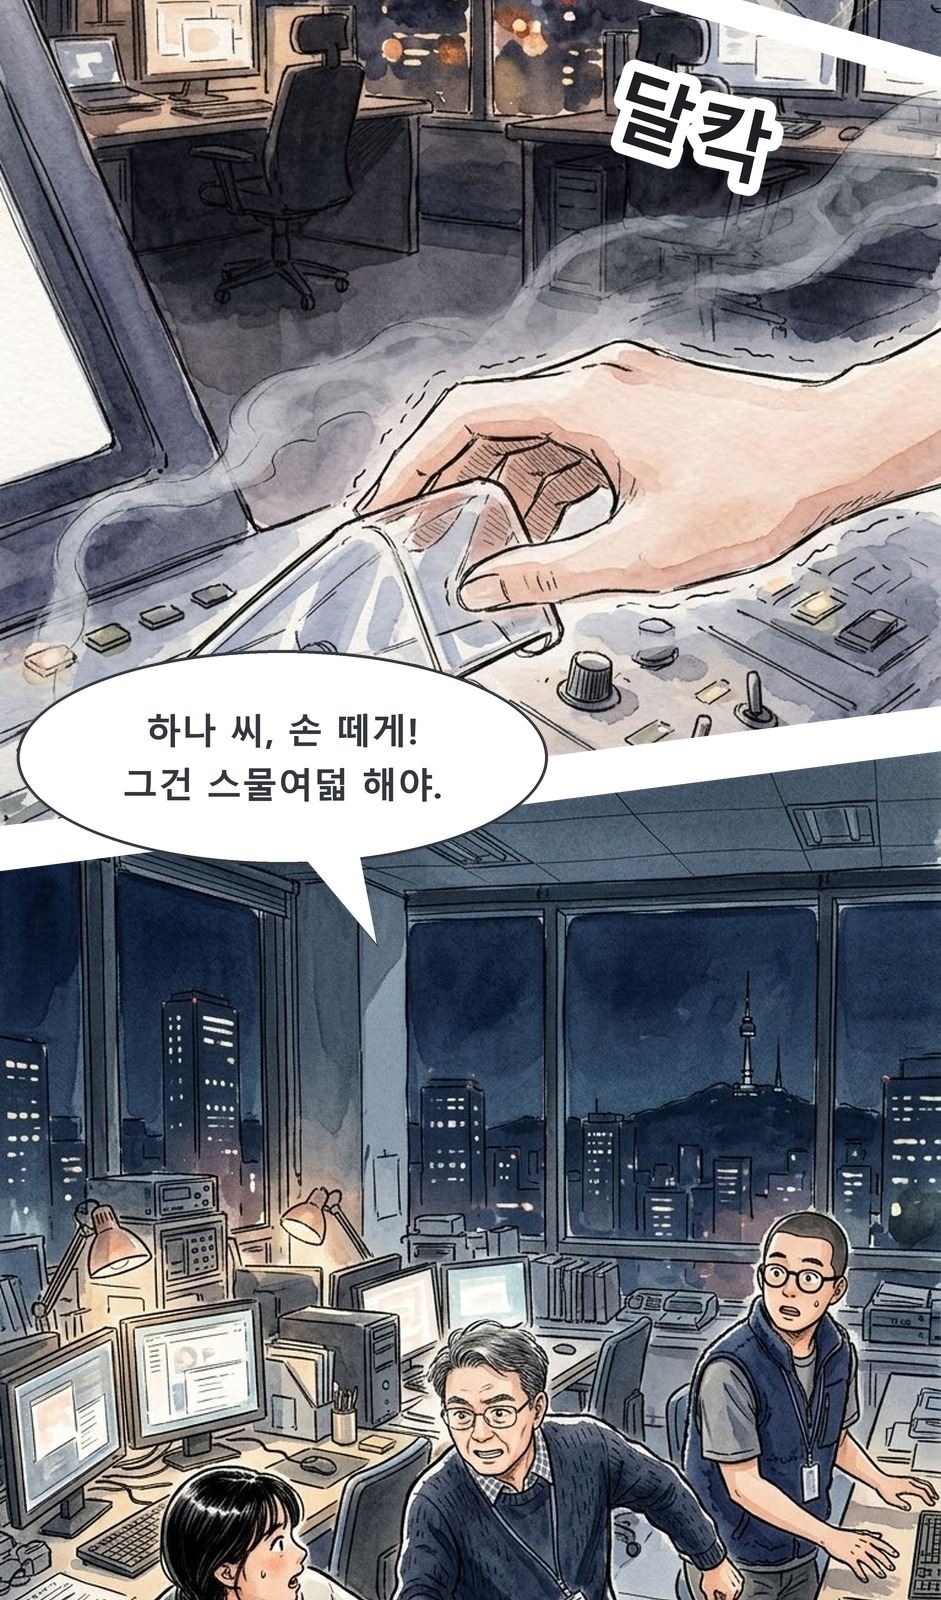
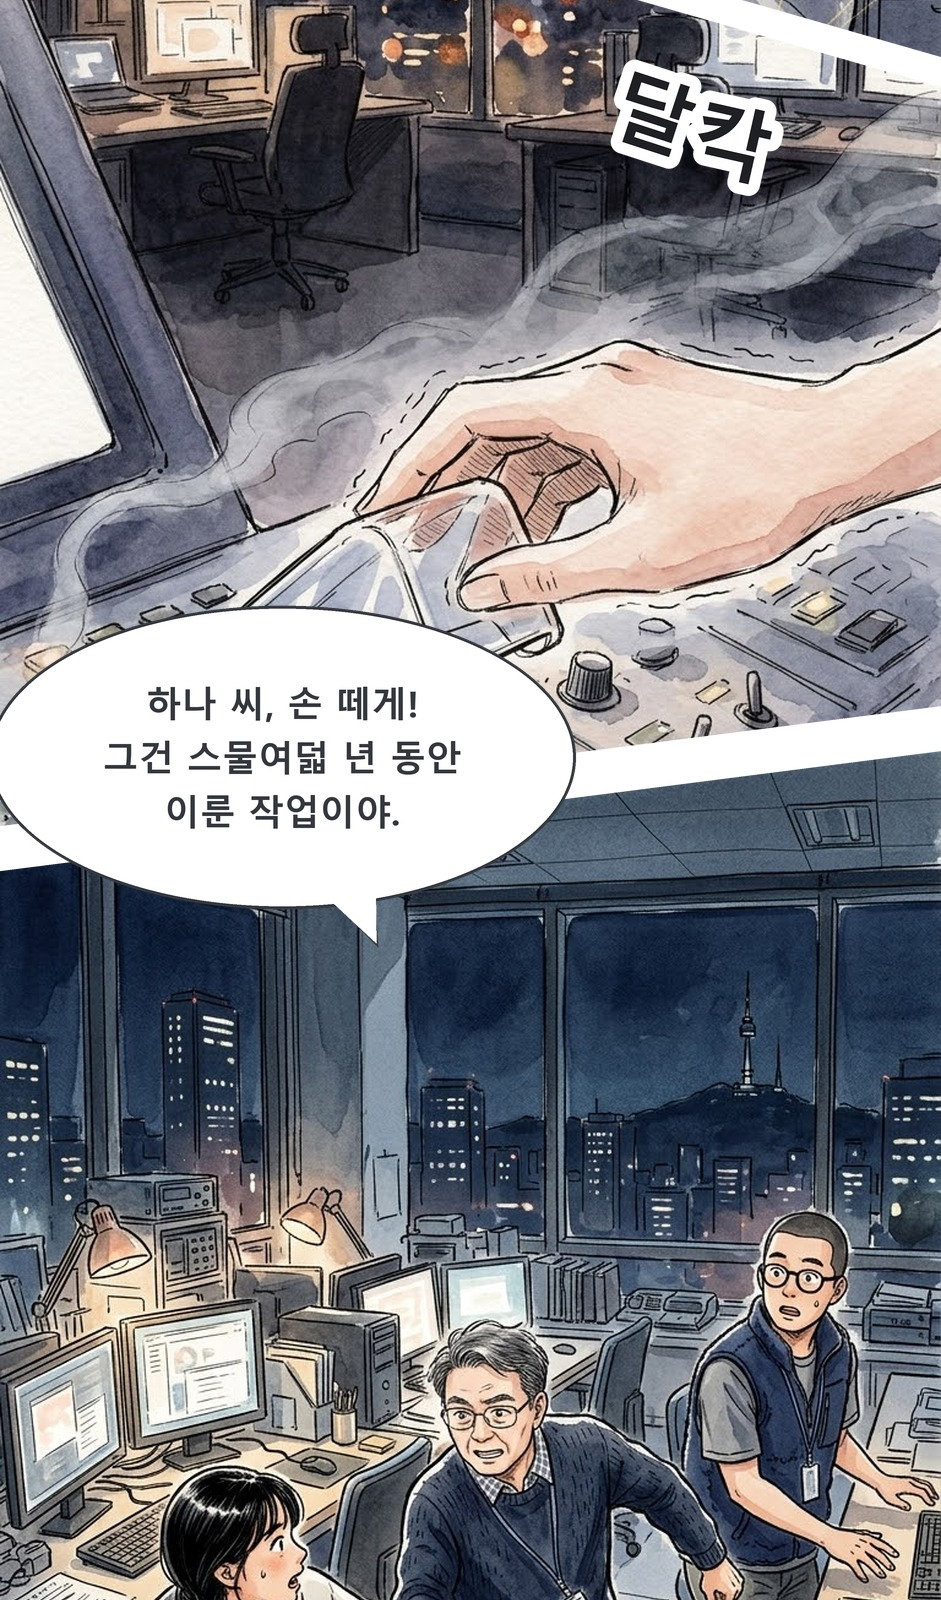
fix: 11·13·15화 대표님 검수 반영
- 11화 11컷 대사 "그건 스물여덟 년 동안 이룬 작업이야"
- 13화 58컷 활 쏘는 아름에 빛의 갑주 윤곽
- 15화 27컷 "유명한 인플루언서", 48컷 방패 대사, 기도 복선 3컷(57~59) 추가로 73컷, 3컷 '서울.' 캡션 위치

Changed region(s): [[0.0, 0.375, 0.6164, 0.5938]]

diff --git a/data.js b/data.js
@@ -1066,7 +1066,7 @@ window.PORTAL = {
      "label": "15화",
      "title": "큰 용",
      "summary": "14화 다음 날 저녁. 미국·러시아·대한민국·유럽 우주 기지국이 동시에 **암흑물질**의 접근을 포착하고, 암흑물질이 각국 위성의 통신을 마비시켜 전 세계 미디어 송출이 막힌다(작가 확정 2026-10-17). 연구실 화면 속 암흑물질의 그림자는 퓨어랜드와 이어져 있다. 박사 \"큰 용이다.\" 아름의 등잔 열쇠가 다급하게 깜빡이고, 박사·하나·도윤은 연구실에서 기도하기로 한다. 골든 캐슬: 비룡 떼와 용장 셋(아포피스·낙심의 용장·뿔 꺾인 라합)이 성을 돌고, 서쪽 하늘이 갈라지며 **큰 용(옛 뱀)** — 깨진 거울 같은 비늘, 해를 가리는 날개 — 이 나타나 성 전체를 휘감는다. 큰 용의 잿빛 숨에 병사들은 비늘에 비친 자기 실패를 보고 무기를 떨군다. 천사장 미가엘이 막지만 천사 병사는 적다. 아름은 13화의 왕관 쓴 자기, 하임은 4화의 숨긴 영상을 비늘에서 보고 갑주가 흐려지지만, 은바와 서로의 손으로 돌아온다. 돔 한쪽이 크게 깨져 떨어진다(대균열). 남매가 숨은 방에서 둘이 말씀을 읽어도 빈 검 홈은 빛나지 않는다 — 부조는 **열두 사람이 함께 한 자루의 검을 드는** 모습. 기록관 \"꼭 이 성 안에 있어야 함께 읽는 것일까요?\" → 아름 \"…방송.\" 밤, 큰 용은 성을 감은 채 기다리고, 미가엘 \"새벽에 총공세가 온다.\" 1차 전쟁이 끝난 밤, 아름 \"위성이 막혔으면 기도로 보내요, 여기서.\" 남매·병사·천사·견습 창병이 큰 홀에서 함께 기도하고, 서울의 박사가 **글래스와 연결된 수신기**로 퓨어랜드에서 오는 기도를 받아 **에너지로 변환, 증폭기로 송출**한다(작가 확정 2026-10-17). 기도의 빛 한 줄기가 하늘로 오르고, 증폭기가 끝까지 차오르며 '퓨어랜드에서의 첫 방송'이 연결된다. 끝: 아름이 글래스 너머로 \"같이 읽어 주세요\" — 어두운 지구 곳곳에 작은 화면들이 켜진다(16화: 이 방송으로 암흑물질이 파괴되고 각국 미디어 센터가 돌아온다 + 함께 선포하는 말씀).",
-     "scenes": 70,
+     "scenes": 73,
      "pages": [
       "assets/pureday/ep15/001.jpg",
       "assets/pureday/ep15/002.jpg",
@@ -1128,7 +1128,10 @@ window.PORTAL = {
       "assets/pureday/ep15/058.jpg",
       "assets/pureday/ep15/059.jpg",
       "assets/pureday/ep15/060.jpg",
-      "assets/pureday/ep15/061.jpg"
+      "assets/pureday/ep15/061.jpg",
+      "assets/pureday/ep15/062.jpg",
+      "assets/pureday/ep15/063.jpg",
+      "assets/pureday/ep15/064.jpg"
      ],
      "thumb": "assets/pureday/ep15/001.jpg"
     },

diff --git a/index.html b/index.html
@@ -51,7 +51,7 @@ footer{text-align:center;color:var(--muted);font-size:12px;padding:24px 16px 40p
 <nav id="nav"></nav>
 <main id="main"></main>
 <footer>여호수아 시즌1은 기존 Joshua-story 사이트에서 열립니다.</footer>
-<script src="data.js?v=202610190822"></script>
+<script src="data.js?v=202610191310"></script>
 <script>
 const esc = s => String(s).replace(/[&<>"]/g, c => ({'&':'&amp;','<':'&lt;','>':'&gt;','"':'&quot;'}[c]));
 const nav = document.getElementById('nav'), main = document.getElementById('main');
